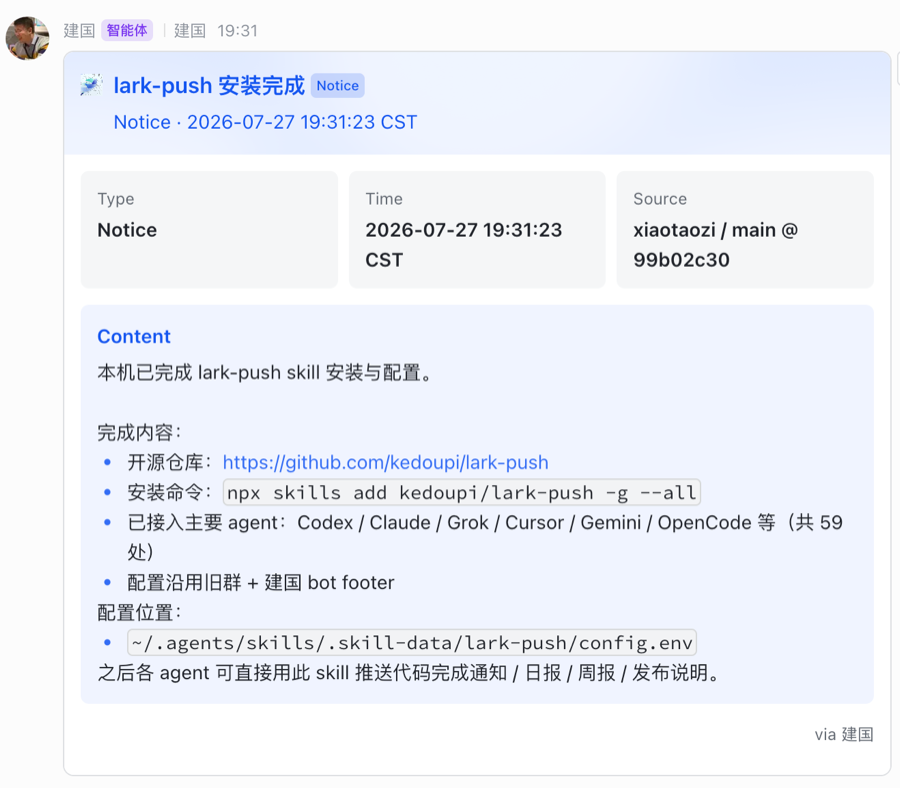
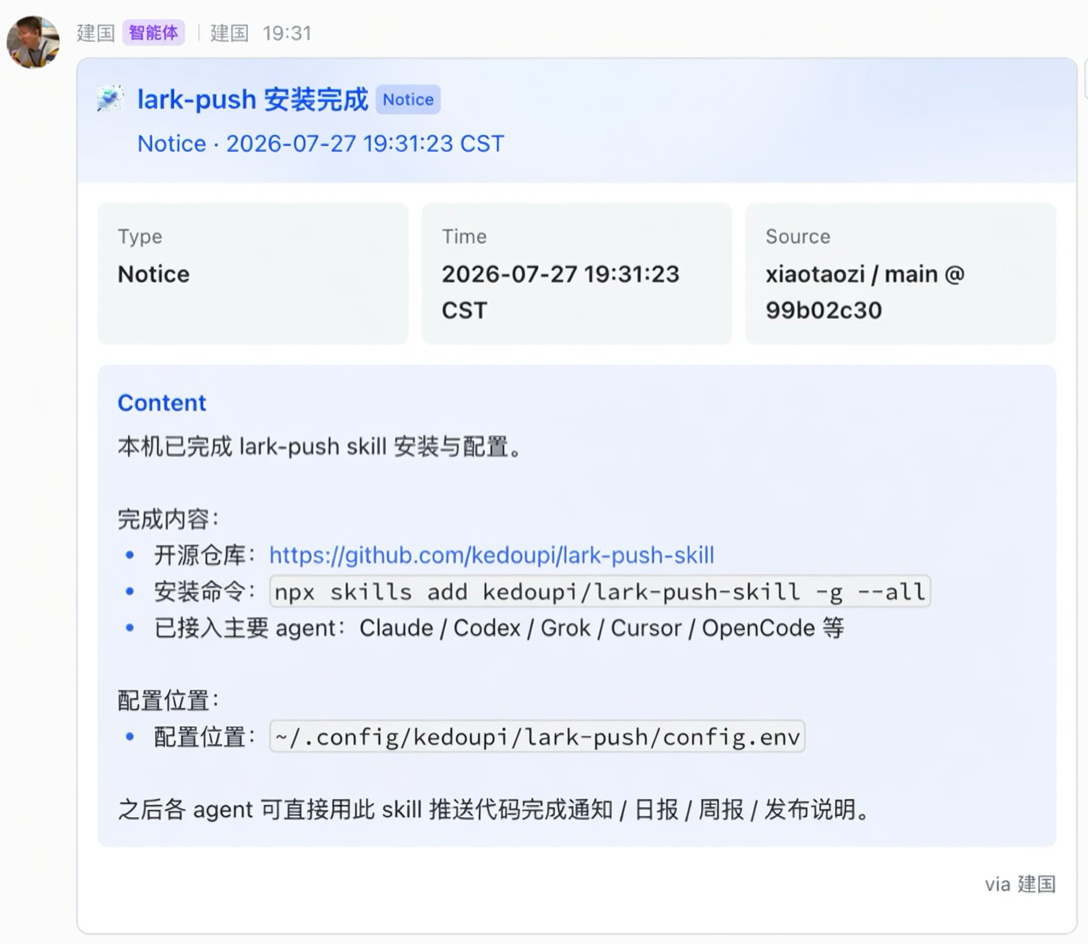
docs: align README clone path, config home, and install screenshot
Development clone dir is lark-push-skill. Features and the install
notice now show ~/.config/kedoupi/lark-push and kedoupi/lark-push-skill.

diff --git a/README.md b/README.md
@@ -58,7 +58,7 @@ Focused daily for one product track (progress, verification, PR, remaining gates
 
 ### Setup / ops notice
 
-One-off notice after installing and configuring the skill on a machine.
+One-off notice after installing and configuring the skill. Install URL, command, and config path match the current kedoupi contract (`lark-push-skill`, `~/.config/kedoupi/lark-push/`).
 
 ![Install notice](docs/screenshots/notice-install.png)
 
@@ -69,7 +69,7 @@ One-off notice after installing and configuring the skill on a machine.
 - Message kinds: `code` / `daily` / `weekly` / `release` / `notice`
 - `doctor` environment checklist with install hints when deps are missing
 - Offline `--dry-run` (no network / no keychain)
-- Config follows the skill install tree and **survives** `npx skills update`
+- Durable config at `~/.config/kedoupi/lark-push/` **survives** `npx skills update`
 - Optional git post-commit hook
 - Built on official [`lark-cli`](https://github.com/larksuite/cli)
 
@@ -325,7 +325,7 @@ Compatible with `npx skills add <owner/repo>` discovery.
 
 ```bash
 git clone https://github.com/kedoupi/lark-push-skill.git
-cd lark-push
+cd lark-push-skill
 
 # Offline self-test (no keychain / network)
 bash tests/run.sh

diff --git a/README.zh-CN.md b/README.zh-CN.md
@@ -58,7 +58,7 @@ Agent 完成工作
 
 ### 安装 / 运维通知
 
-本机完成 skill 安装与配置后的一次性通知。
+本机完成 skill 安装与配置后的一次性通知。仓库名、安装命令和配置路径已与当前约定对齐（`lark-push-skill`，`~/.config/kedoupi/lark-push/`）。
 
 ![安装通知](docs/screenshots/notice-install.png)
 
@@ -69,7 +69,7 @@ Agent 完成工作
 - 消息类型：`code` / `daily` / `weekly` / `release` / `notice`
 - `doctor` 环境自检，缺依赖时给出安装提示
 - 离线 `--dry-run`（不访问网络 / 不碰钥匙串）
-- 配置跟随安装目录，且 **`npx skills update` 不会冲掉**
+- 配置写在 `~/.config/kedoupi/lark-push/`，**`npx skills update` 不会冲掉**
 - 可选 git post-commit 钩子
 - 基于官方 [`lark-cli`](https://github.com/larksuite/cli)
 
@@ -336,7 +336,7 @@ LICENSE
 
 ```bash
 git clone https://github.com/kedoupi/lark-push-skill.git
-cd lark-push
+cd lark-push-skill
 
 # 离线自测（不碰钥匙串 / 网络）
 bash tests/run.sh
